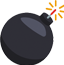
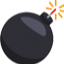
New image system

diff --git a/buscaminas.py b/buscaminas.py
@@ -8,6 +8,7 @@ import threading
 import traceback
 import os
 import importlib.util
+from PIL import Image, ImageTk
 
 class ModManager:
     def __init__(self, mod_directory="mods"):
@@ -71,8 +72,17 @@ class Minesweeper:
         self.flags_counter.grid(column=5, row=0, columnspan=4)  
         
         self.tiempoHabilitado = False  
-        self.bomba_img = PhotoImage(file="img\\bomba3.png")
-        self.bandera = PhotoImage(file="img\\bandera.png")
+        # Imagenes originales
+        img_bomb_original = Image.open("img\\bomba3.png")
+        img_flag_original = Image.open("img\\bandera.png")
+
+        # Redimensionamiento de imagenes
+        img_bomb_rescaled = img_bomb_original.resize((50, 50), Image.ANTIALIAS) 
+        img_flag_rescaled = img_flag_original.resize((50, 50), Image.ANTIALIAS)  
+
+        # Conversion a un formato que acepte tk
+        self.bomb = ImageTk.PhotoImage(img_bomb_rescaled)
+        self.flag = ImageTk.PhotoImage(img_flag_rescaled)
         
         # Mod Manager
         self.mod_manager = ModManager()
@@ -149,11 +159,6 @@ class Minesweeper:
                 fila_botones.append(btn) 
             self.listaBotones.append(fila_botones)  
 
-        for i in range(columnas):
-            self.frame.grid_columnconfigure(i, weight=1)
-        for i in range(filas):
-            self.frame.grid_rowconfigure(i, weight=1)
-
     def bombasRandom(self):
         total_casillas = self.current_difficulty
         filas, columnas = self.find_dimensions(total_casillas)
@@ -188,7 +193,7 @@ class Minesweeper:
         filas, columnas = self.find_dimensions(self.current_difficulty)
         for i in index:
             fila, columna = divmod(i, columnas)
-            self.listaBotones[fila][columna].config(bg='red', image=self.bomba_img, width=32, height=33)
+            self.listaBotones[fila][columna].config(bg='red', image=self.bomb)
         self.tiempoHabilitado = False
         messagebox.showinfo("Game Over", "Has pulsado una bomba!")
         self.resetGame()
@@ -254,19 +259,22 @@ class Minesweeper:
         new_bomb = random.choice(list(available_spots))
         self.bombas.append(new_bomb)
         
-        # Actualizar el botón
+        # Actualizar el comando del nuevo botón de bomba
         new_fila, new_columna = divmod(new_bomb, columnas)
         self.listaBotones[new_fila][new_columna].config(command=lambda i=new_bomb: self.revealBombas(self.bombas))
+        
+        # Eliminar el comando del botón donde se quitó la bomba
+        self.listaBotones[fila][columna].config(command=lambda: None)
 
     def colocarBandera(self, index):
         fila, columna = index
         if self.listaBotones[fila][columna]['bg'] == 'grey':
             if self.flags > 0:
-                self.listaBotones[fila][columna].config(bg='orange', image=self.bandera, width=32, height=33)
+                self.listaBotones[fila][columna].config(bg='orange', image=self.flag)
                 self.flags -= 1
                 self.updateFlagsCounter()
         elif self.listaBotones[fila][columna]['bg'] == 'orange':
-            self.listaBotones[fila][columna].config(bg='grey', image=self.transparent_image, width=32, height=33)
+            self.listaBotones[fila][columna].config(bg='grey', image=self.transparent_image)
             self.flags += 1
             self.updateFlagsCounter()
 
@@ -288,13 +296,14 @@ class Minesweeper:
         self.bombasRandom()
         self.inicio = False
         self.updateFlagsCounter()
+
 def debugConsole():
     while True:
-        command= input("Introduce un comando: ")
+        command = input("Introduce un comando: ")
         try:
             exec(command)
         except Exception as e:
-            l=traceback.format_exc()
+            l = traceback.format_exc()
             print(f"Error al ejecutar el comando: {e} {l}")
 
 if __name__ == "__main__":
